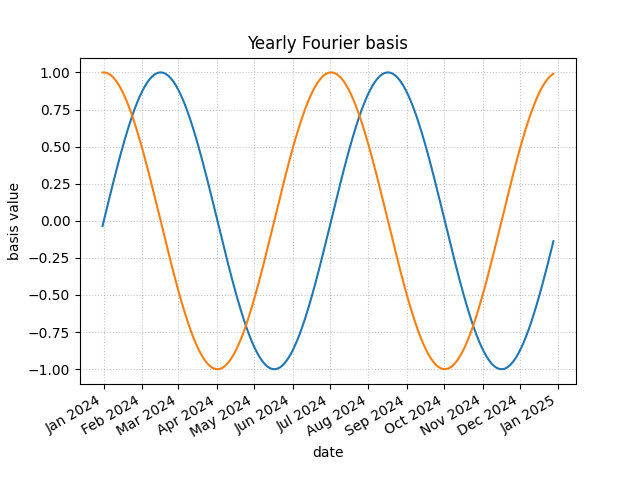
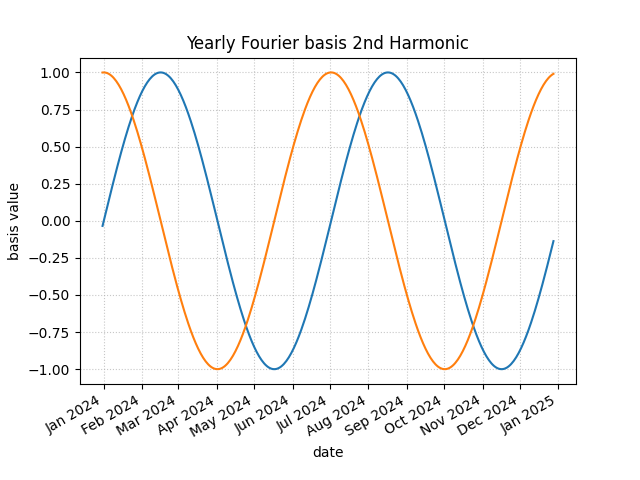
average daily sales and weekday sales visualisations implemented (#3)

Changed region(s): [[0.2812, 0.0625, 0.7188, 0.125]]

diff --git a/src/analysis/eda.py b/src/analysis/eda.py
@@ -10,10 +10,9 @@ User-facing eda on historical data to uncover trends and patterns
 '''
 
 DOW_ORDER = ["Mon","Tue","Wed","Thu","Fri","Sat","Sun"] # tuple [] for a set order
-UPLIFT_COLS = ["holiday", "internal_event", "external_event"] # skips numerical columns for sales uplift calculations
 
 # mean metric per calendar month
-def monthly_avg(df, metric):
+def monthly_avg(df, metric, name):
     d = df["date"]
     month = d.dt.to_period("M") # returns year-month keys to group by year-month
     month_m = (df.groupby(month)[metric].agg(value="mean", n_days="count") # aggregating groups to compute mean and n_days 
@@ -24,6 +23,21 @@ def monthly_avg(df, metric):
     month_m["label"] = month_m["month"].dt.strftime("%b %Y")
     month_m["value"] = month_m["value"].astype(float).round(2) # rounding
     month_m["n_days"] = month_m["n_days"].astype(int)
+
+    fig, ax = plt.subplots()
+    m = month_m["month"].dt.to_timestamp()
+    a = month_m["value"]
+
+    ax.bar(m, a, width=20, alpha=0.35, label="daily avg")
+    ax.plot(m, a, marker="o", linewidth=1.5, label="trend")
+
+    ax.set_xlabel("month")
+    ax.set_ylabel("average sales")
+    ax.set_title("Average daily sales per month")
+    ax.grid(True, which="major", linestyle=":", linewidth=0.8, alpha=0.7)
+    monthly_labels(ax)
+    save_figure(fig, name)
+
     return pd.DataFrame(month_m[["month", "label", "value", "n_days"]])
 
 # mean metric by weekday for a specified month
@@ -43,55 +57,40 @@ def weekday_avg(df, month, metric):
     day_m["value"] = day_m["value"].astype(float).round(2) # rounding for user interface
     return pd.DataFrame(day_m[["dow", "value"]])
 
+# generate line and bar graphs of weekday averages for individual months
+def weekday_avg_plot(weekday_averages):
 
-# compute uplift of specified factors against specified metric
-def uplifts(df, factor, month, metric, sep=";"):
+    df = pd.concat(weekday_averages, ignore_index=True)
 
-    OUT_COLS = ["tag", "n", "avg", "uplift"]
-    d = df["date"]
-    m = d.dt.month.eq(int(month)) # builds boolean mask for selected month
+    fig, ax = plt.subplots()
+    # d = df["dow"]
+    # m = df["month"].dt.to_timestamp()
+    # a = df["value"]
 
-    if not m.any(): # fallback if selected month doesnt exist
-        return pd.DataFrame(columns=OUT_COLS)
-    
-    sub = df.loc[m].copy()
-    s = sub[factor].fillna("").astype(str).str.strip().str.lower() # normalises factor column into clean strings
+    # ax.bar(m, a, width=20, alpha=0.35, label="weekday avg")
+    # ax.plot(m, a, marker="o", linewidth=1.5, label="trend")
 
-    if factor in UPLIFT_COLS:
-        tags_list = s.apply(lambda val: [tag.strip() for tag in val.split(sep) if tag.strip() and tag.strip() != "none"]) # splits multi-tag strings into a list of tags
-        base_mask = tags_list.str.len().eq(0) # marks baseline days as days without tags
-        baseline = (sub.loc[base_mask])[metric].mean() # mean metric of days without events within the month
+    # ax.set_xlabel("month")
+    # ax.set_ylabel("average sales")
+    # ax.set_title("Average weekday sales per month")
+    # ax.grid(True, which="major", linestyle=":", linewidth=0.8, alpha=0.7)
+    # save_figure(fig, "weekday_average_separated")
 
-        # add helper columns 
-        sub["tags"] = tags_list # attach tag if any
+    # weekday averages across all months
+    by_dow = df.groupby("dow")["value"].mean().reindex(DOW_ORDER)
+    ax.bar(by_dow.index, by_dow.values, alpha=0.35, label="weekday avg")
+    ax.plot(by_dow.index, by_dow.values, marker="o", linewidth=1.5, label="trend")
+    ax.set_xlabel("weekday")
+    ax.set_ylabel("average sales")
+    ax.set_title("Average weekday sales across all months")
+    ax.grid(True, which="major", linestyle=":", linewidth=0.8, alpha=0.7)
+    save_figure(fig, "weekday_average_total")
 
-        # explode tags to individual rows
-        sub = (sub.explode("tags").rename(columns={"tags": "tag"}))
-        sub = sub[["date", "tag", metric]].drop_duplicates(subset=["date", "tag"])
 
-        sub["baseline"] = baseline # sets baseline to month baseline for other factors
 
-        # filter out rows with no event or an invalid baseline
-        sub = sub.loc[~base_mask & sub["baseline"].notna()]
-
-        # fallback
-        if sub.empty or pd.isna(baseline) or baseline == 0: # guards uplift calculation against NaN and 0
-            return pd.DataFrame(columns=OUT_COLS)
-        
-    else:
-        return pd.DataFrame(columns=OUT_COLS)
-        
-    # calculate percentage uplift per row against baseline
-    sub["uplift_row"] = 100.0 * (sub[metric] - sub["baseline"]) / sub["baseline"]
-
-    # aggregate per tag - collapse daily rows into a few group-level numbers
-    tab = (sub.groupby("tag")
-        .agg(n=("date", "nunique") # unique days tag occurs
-             , avg=(metric, "mean") # mean metric on tagged days
-             , uplift=("uplift_row", "mean")) # mean % uplift across occurrences
-        .reset_index().sort_values("avg", ascending=False))
-    
-    return pd.DataFrame(tab[OUT_COLS])
+# generates a box plot to visualise sales distribution
+def sales_distribution(df, name):
+    pass
 
 # helper function to improve visibility of values on x-axis
 def monthly_labels(ax):
@@ -206,7 +205,7 @@ def plot_all(df):
     # fourier baseline waves
     fourier_basis_wave(df, "dow_sin", "dow_cos", 1, "Weekly Fourier basis", "fourier_basis_monthly")
     fourier_basis_wave(df, "doy_sin", "doy_cos", 1, "Yearly Fourier basis", "fourier_basis_yearly")
-    fourier_basis_wave(df, "doy_sin_2", "doy_cos_2", 2, "Yearly Fourier basis", "fourier_basis_yearly_k2") # k=2 adds an extra Fourier harmonic so the model can capture more complex seasonality
+    fourier_basis_wave(df, "doy_sin_2", "doy_cos_2", 2, "Yearly Fourier basis 2nd Harmonic", "fourier_basis_yearly_k2") # k=2 adds an extra Fourier harmonic so the model can capture more complex seasonality
 
     # seasonal curves
     seasonal_curve(df, "sales", 2, "Sales seasonal curve") # plot k=1?
@@ -224,7 +223,7 @@ def plot_all(df):
     decomposition_plot(df, "seasonal_decompose")
 
     # monthly average for specified 
-    monthly_averages = monthly_avg(df, "sales")
+    monthly_averages = monthly_avg(df, "sales", "monthly_average")
 
     # weekday average for specified metric
     weekday_averages = []
@@ -233,13 +232,8 @@ def plot_all(df):
         average["month"] = month
         weekday_averages.append(average)
 
-    # percentage uplift for specified factor, month, and metric
-    all_uplifts = []
-    for factor in UPLIFT_COLS:
-        for month in range(1, 13):
-            uplift = uplifts(df, factor, month, "sales")
-            uplift["factor"] = factor
-            uplift["month"] = month
-            all_uplifts.append(uplift)
+    weekday_avg_plot(weekday_averages)
 
-    return pd.concat(weekday_averages, ignore_index=True), monthly_averages, pd.concat(all_uplifts, ignore_index=True)
+
+
+    return pd.concat(weekday_averages, ignore_index=True), monthly_averages

diff --git a/running/analyse.py b/running/analyse.py
@@ -8,14 +8,13 @@ Produces figures and metrics which explain sales drivers and patterns
 
 def run(data_path="data/sales_daily_processed.csv"):
     df = load_csv(data_path)
-    weekday_avg, monthly_avg, uplifts = plot_all(df)
+    weekday_avg, monthly_avg = plot_all(df)
     print("date min:", df["date"].min())
     print("date max:", df["date"].max())
     print("n_rows:", len(df))
 
     save_results(weekday_avg, "weekday averages") # save results to /results for later use
     save_results(monthly_avg, "monthly averages")
-    save_results(uplifts, "sales uplifts")
 
 if __name__ == "__main__": # used for running script outside of vscode, add argparsing to complete configuration
     run()
